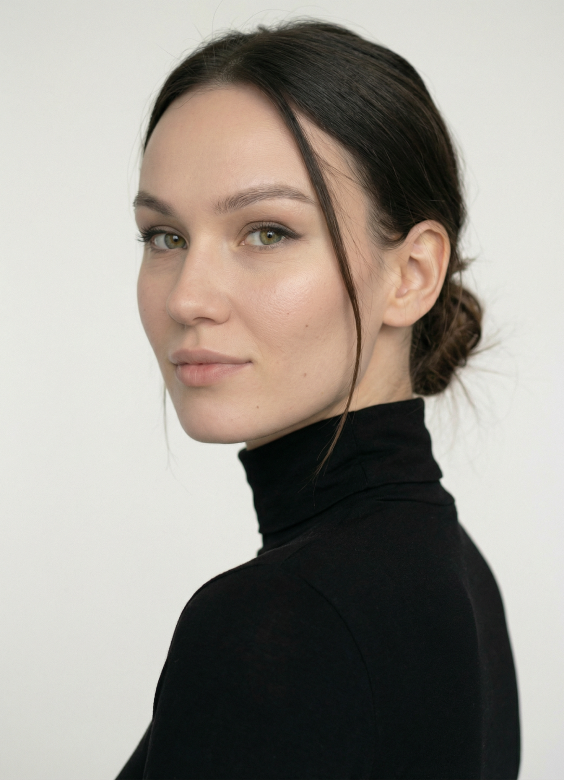
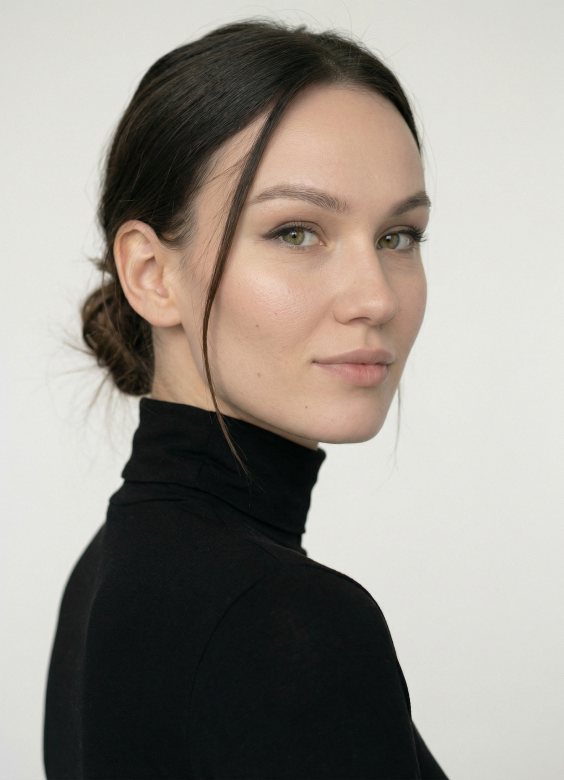
Hero hover pictures: fade only, slow fade out; About photo black and white, colour on hover
Claude-Session: https://claude.ai/code/session_016LQZt2F487BrNs7z6izoNo

diff --git a/content/OPEN-DECISIONS.md b/content/OPEN-DECISIONS.md
@@ -123,6 +123,10 @@ Design review 7 (hero-hover)
 - Hero "Book a 20-minute call": on hover the underline slides away to the left while the arrow moves right; pressed: lilac, no line (Figma States).
 - Hero hover pictures from the Figma frames "1"-"4" next to the Landing page: moving the cursor along the headline fades in one picture for that part of it (left to right: frames 2, 4, 3, 1, at their Figma positions); leaving the headline fades it out. Not clickable, desktop with a mouse only, images load only there (WebP, lazy). Pictures are decorative (no alt text).
 
+Design review 8 (about-photo)
+- Hero hover pictures: fade only (no blur or scale); a picture fades out slowly (1.4s) when the next one takes over or the cursor leaves the headline.
+- About photo: black and white by default (the dithered version from Figma, 32:3068); on hover the colour photo fades in slowly (1.8s) and fades back to black and white (2.2s) after the cursor leaves. The colour photo is mirrored to match the Figma black and white version, as in the Figma frame.
+
 Technical
 - Form service choice (verify free limits). Cal.com account/link. Custom domain later.
 - Mobile Figma frames to come later.
